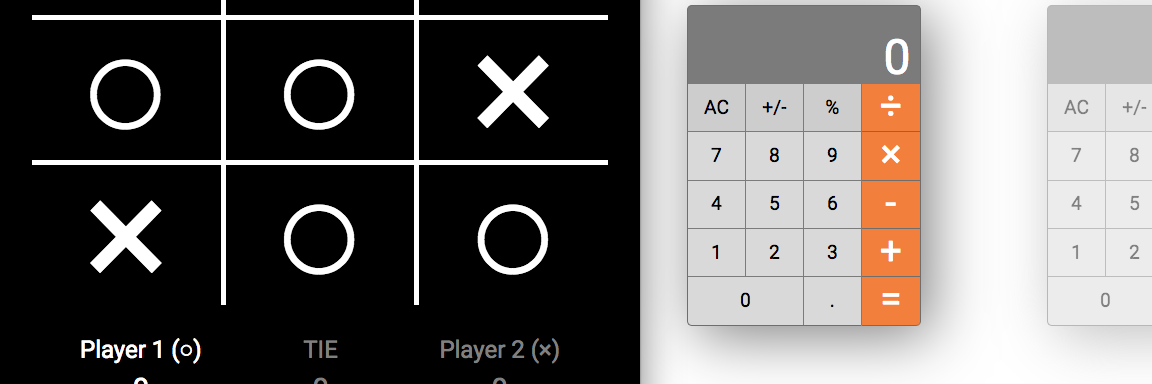
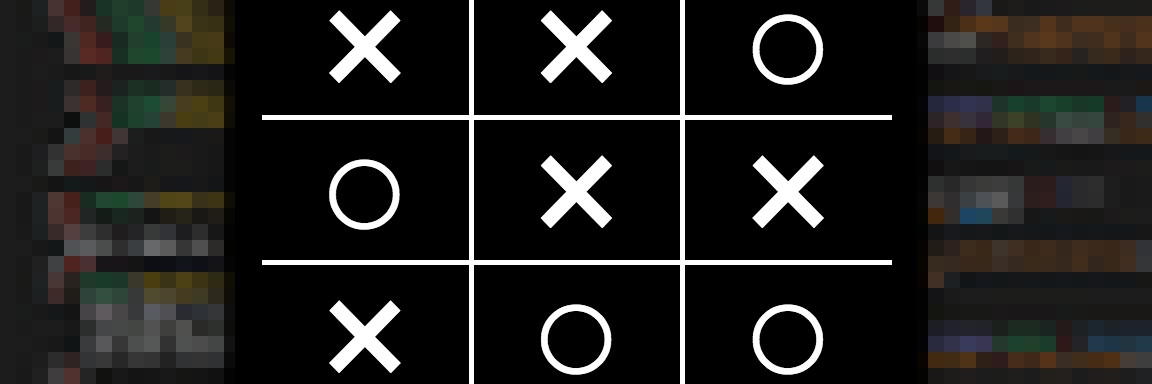
fix project button, remove calc img

diff --git a/tictactoe/index.html b/tictactoe/index.html
@@ -10,46 +10,46 @@
   <div class="pagewrap">
     <div class="gameboard">
       <div class="gameboard-a1 gameboard-button">
-        <div class="gameboard-a1-o hidden">○</div>
-        <div class="gameboard-a1-x hidden">×</div>
+        <div class="gameboard-a1-o hidden">o</div>
+        <div class="gameboard-a1-x hidden">x</div>
       </div>
       <div class="gameboard-a2 gameboard-button">
-        <div class="gameboard-a2-o hidden">○</div>
-        <div class="gameboard-a2-x hidden">×</div>
+        <div class="gameboard-a2-o hidden">o</div>
+        <div class="gameboard-a2-x hidden">x</div>
       </div>
       <div class="gameboard-a3 gameboard-button">
-        <div class="gameboard-a3-o hidden">○</div>
-        <div class="gameboard-a3-x hidden">×</div>
+        <div class="gameboard-a3-o hidden">o</div>
+        <div class="gameboard-a3-x hidden">x</div>
       </div>
       <div class="gameboard-b1 gameboard-button">
-        <div class="gameboard-b1-o hidden">○</div>
-        <div class="gameboard-b1-x hidden">×</div>
+        <div class="gameboard-b1-o hidden">o</div>
+        <div class="gameboard-b1-x hidden">x</div>
       </div>
       <div class="gameboard-b2 gameboard-button">
-        <div class="gameboard-b2-o hidden">○</div>
-        <div class="gameboard-b2-x hidden">×</div>
+        <div class="gameboard-b2-o hidden">o</div>
+        <div class="gameboard-b2-x hidden">x</div>
       </div>
       <div class="gameboard-b3 gameboard-button">
-        <div class="gameboard-b3-o hidden">○</div>
-        <div class="gameboard-b3-x hidden">×</div>
+        <div class="gameboard-b3-o hidden">o</div>
+        <div class="gameboard-b3-x hidden">x</div>
       </div>
       <div class="gameboard-c1 gameboard-button">
-        <div class="gameboard-c1-o hidden">○</div>
-        <div class="gameboard-c1-x hidden">×</div>
+        <div class="gameboard-c1-o hidden">o</div>
+        <div class="gameboard-c1-x hidden">x</div>
       </div>
       <div class="gameboard-c2 gameboard-button">
-        <div class="gameboard-c2-o hidden">○</div>
-        <div class="gameboard-c2-x hidden">×</div>
+        <div class="gameboard-c2-o hidden">o</div>
+        <div class="gameboard-c2-x hidden">x</div>
       </div>
       <div class="gameboard-c3 gameboard-button">
-        <div class="gameboard-c3-o hidden">○</div>
-        <div class="gameboard-c3-x hidden">×</div>
+        <div class="gameboard-c3-o hidden">o</div>
+        <div class="gameboard-c3-x hidden">x</div>
       </div>
     </div>
 
     <div class="scoreboard">
       <div class="scoreboard-player1">
-        <div class="scoreboard-player1-name">Player 1 (○)</div>
+        <div class="scoreboard-player1-name">Player 1 (o)</div>
         <div class="scoreboard-player1-score scoreboard-score">0</div>
       </div> <!-- scoreboard-player1 -->
 
@@ -59,7 +59,7 @@
       </div> <!-- scoreboard-tie -->
 
       <div class="scoreboard-player2 unfocused">
-        <div class="scoreboard-player2-name">Player 2 (×)</div>
+        <div class="scoreboard-player2-name">Player 2 (x)</div>
         <div class="scoreboard-player2-score scoreboard-score">0</div>
       </div> <!-- scoreboard-player2 -->
 

diff --git a/projects.html b/projects.html
@@ -109,8 +109,8 @@
               JAVASCRIPT, DOM MANIPULATION, CLOUSURES, COMPARTMENTALIZATION
             </h5>
             <p class="border-bottom pb-5">
-                Mini Apps: Two small apps demonstrating fundamental programming
-                skills, Tic Tac Toe and a double calculator
+                Mini Apps: A small app demonstrating fundamental programming
+                skills, Tic Tac Toe.
             </p>
           </section>
 

diff --git a/styles.css b/styles.css
@@ -56,14 +56,14 @@
   opacity: 0;
   position: absolute;
   cursor: pointer;
-  margin-top: -150px;
+  margin-top: -22%;
   left: 0;
   right: 0;
   transition: .2s ease-in-out;
 }
 
 .project-button-show{
-  margin-top: -120px;
+  margin-top: -18%;
   opacity: 1;
 }
 

diff --git a/tictactoe/styles.css b/tictactoe/styles.css
@@ -1,7 +1,5 @@
-@import url('https://fonts.googleapis.com/css?family=Roboto');
-
 body{
-  font-family: 'Roboto';
+  font-family: Arial;
   background-color: black;
 }
 

diff --git a/calc/index.css b/calc/index.css
@@ -1,7 +1,5 @@
-@import url('https://fonts.googleapis.com/css?family=Roboto');
-
 * {
-  font-family: 'Roboto';
+  font-family: 'Arial';
 }
 
 .pagewrap{
